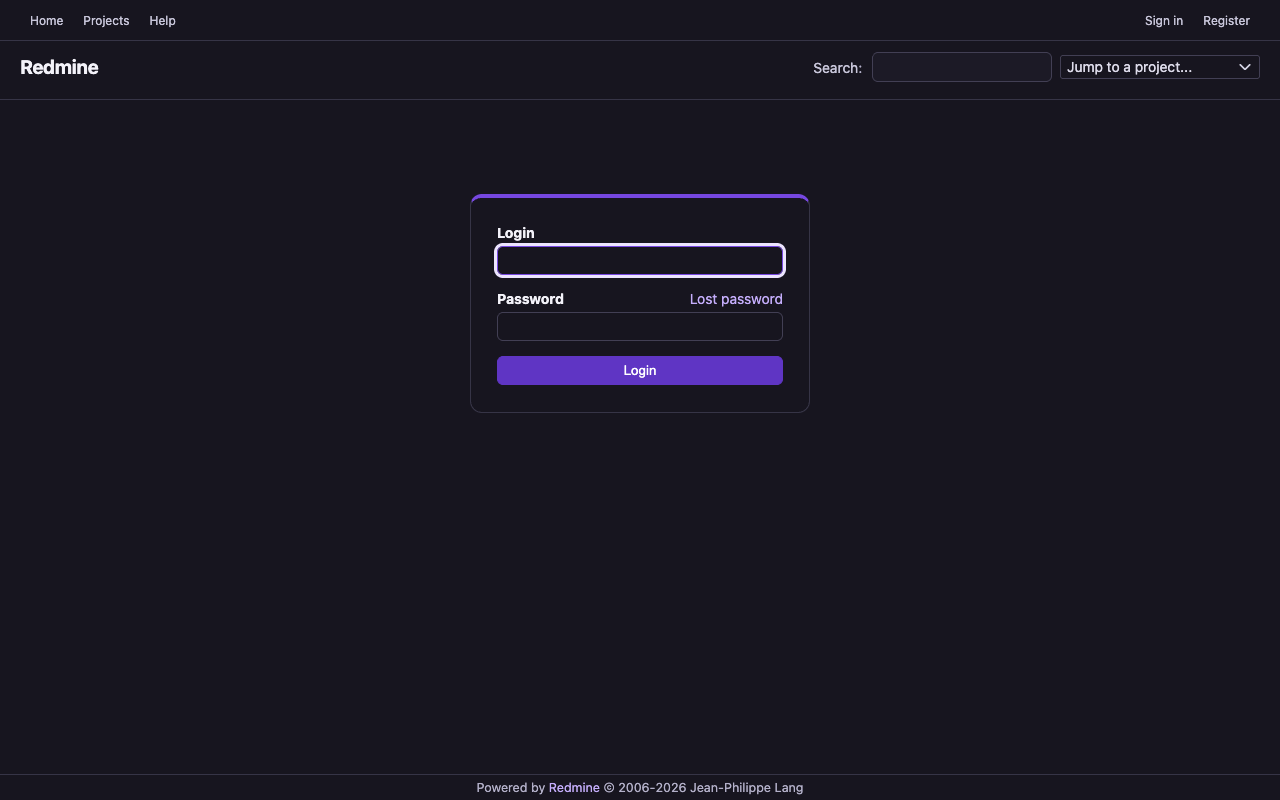
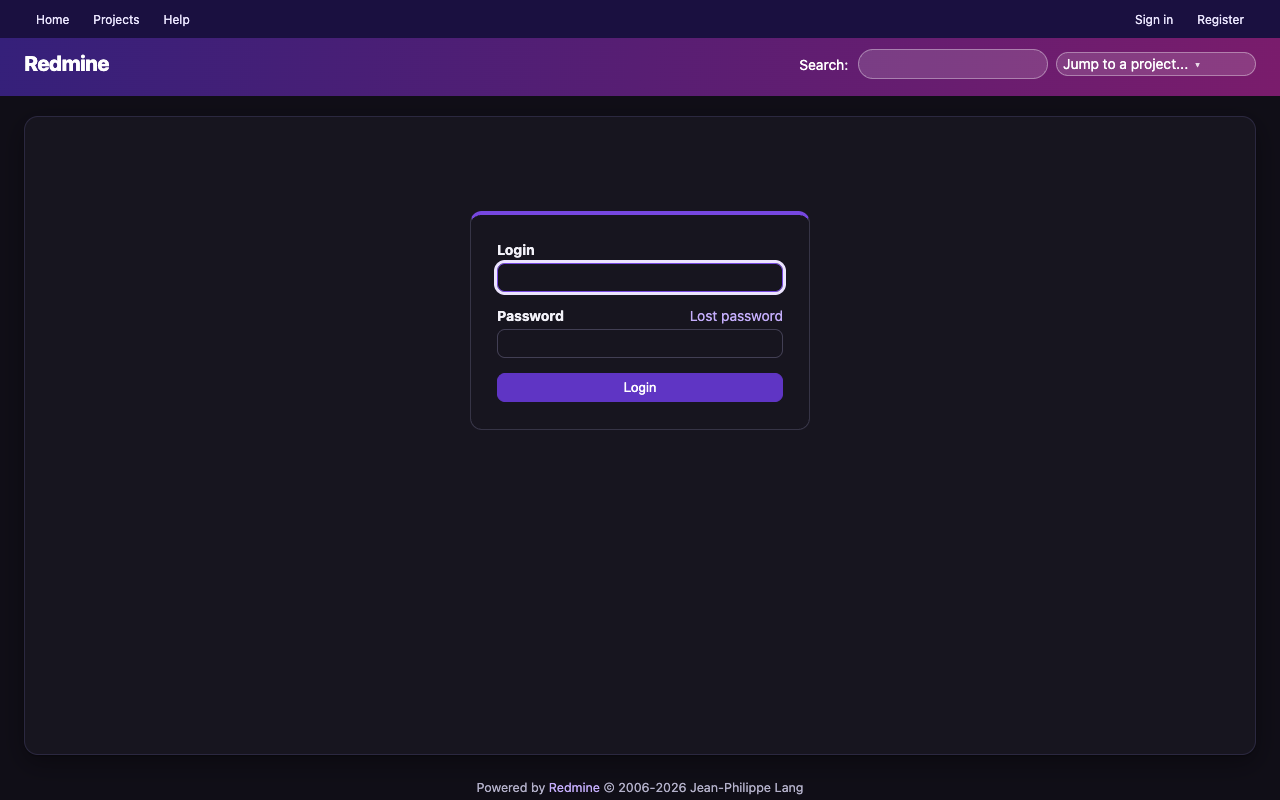
docs: new screenshots and walkthroughs for the band layout
refs #1630

Changed region(s): [[0.0, 0.0, 1.0, 0.125], [0.375, 0.2188, 0.625, 0.4062], [0.375, 0.4375, 0.625, 0.5312]]

diff --git a/CHANGELOG.md b/CHANGELOG.md
@@ -7,7 +7,7 @@ All notable changes to this theme. The format follows [Keep a Changelog](https:/
 ### Added
 
 - Amethyst: cool neutrals and a violet accent on a white page, in the Open Color variables Redmine 7 is built on.
-- On screens 1100px and wider, all navigation moves into a light left sidebar, in plain CSS: the title, search and project jump, the general links, the project menu (or the administration menu) and, at the bottom, the profile. Narrower screens and the login page keep Redmine's own layout.
+- A violet-to-magenta band across the top holds the title, search, project jump and the menus, which are pills. The page is a white card on a soft tinted canvas, and the sidebar is a second card. The administration menu stays on the left on every admin page.
 - Tighter spacing, small capitals in table headers, striped rows and thin column lines, an issue card with a violet edge, a login card.
 - A dark set for the system dark setting, in one block at the end of the stylesheet.
 - The theme skeleton, the demo Redmine, the page check, the screenshot script and the recorder.

diff --git a/README.md b/README.md
@@ -1,6 +1,6 @@
 # Amethyst for Redmine
 
-Violet accents on a clean white page, with all navigation in a light sidebar and tighter spacing.
+A violet-to-magenta band across the top, with pill menus, and white cards on a soft tinted canvas.
 
 A theme for Redmine 7 and up. It is CSS only, with no script, no plugin and no change to Redmine itself. Light first, with a dark set that follows your system setting (see [Dark mode](#dark-mode)).
 
